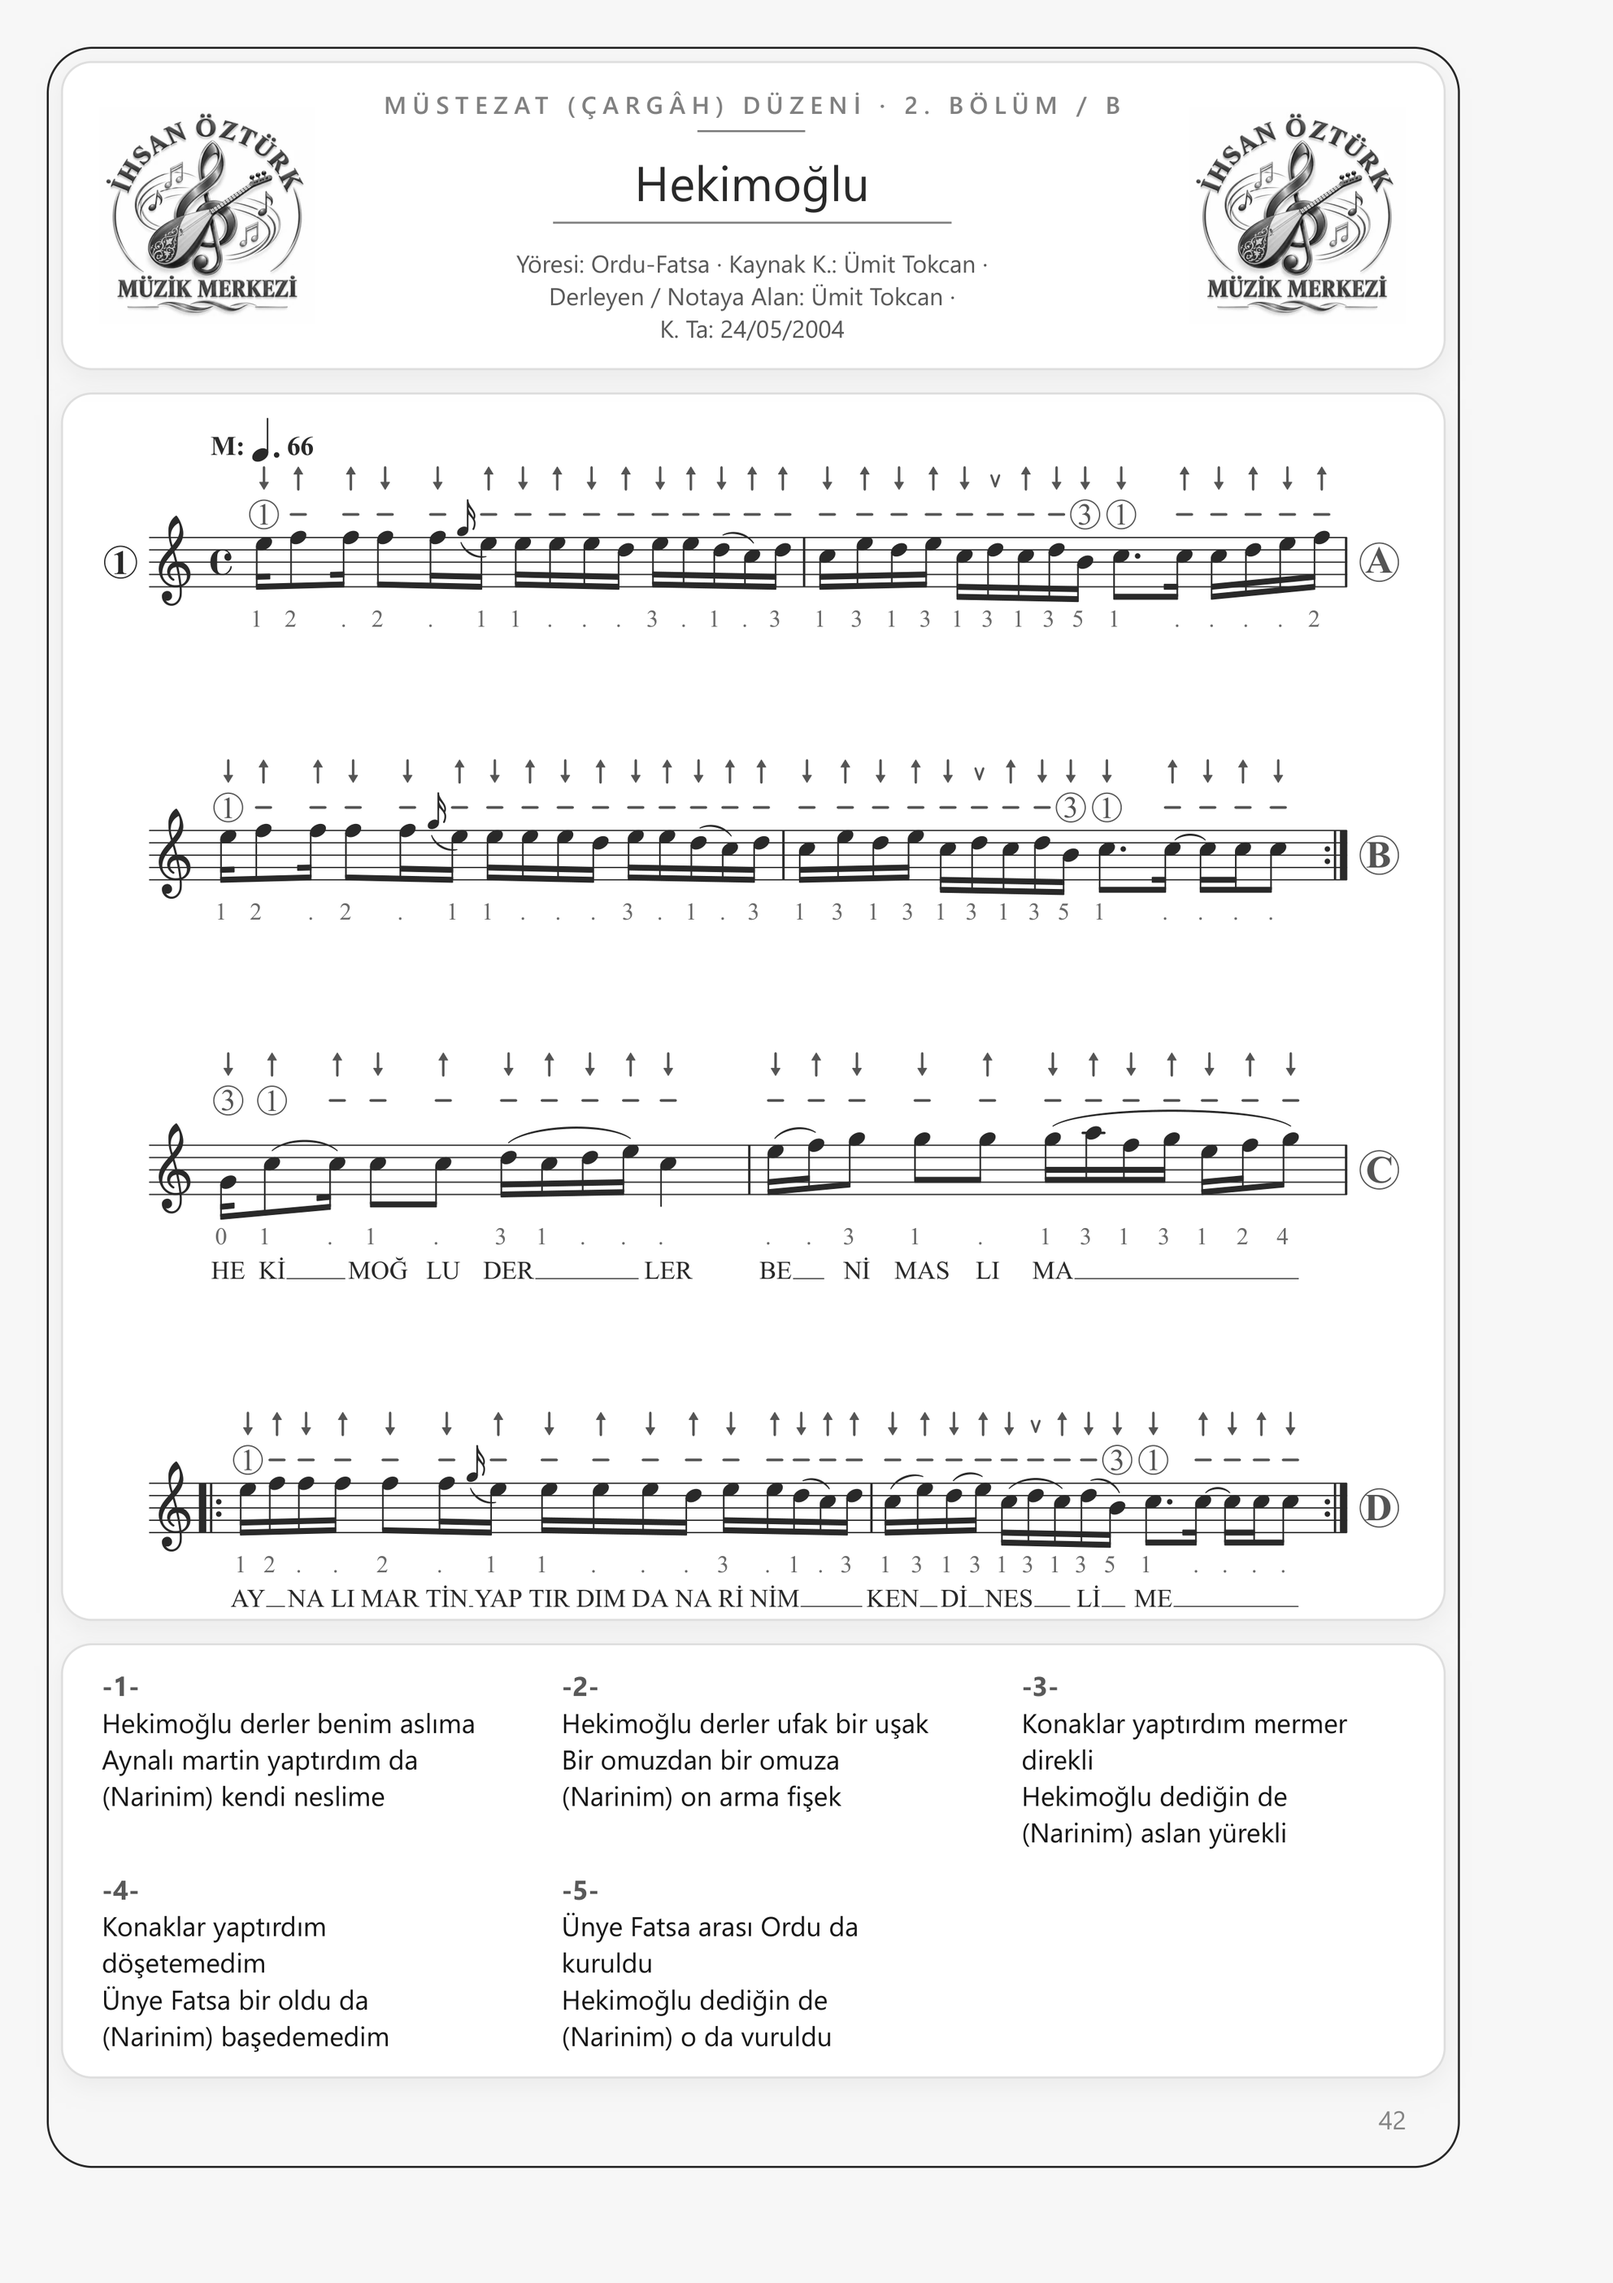
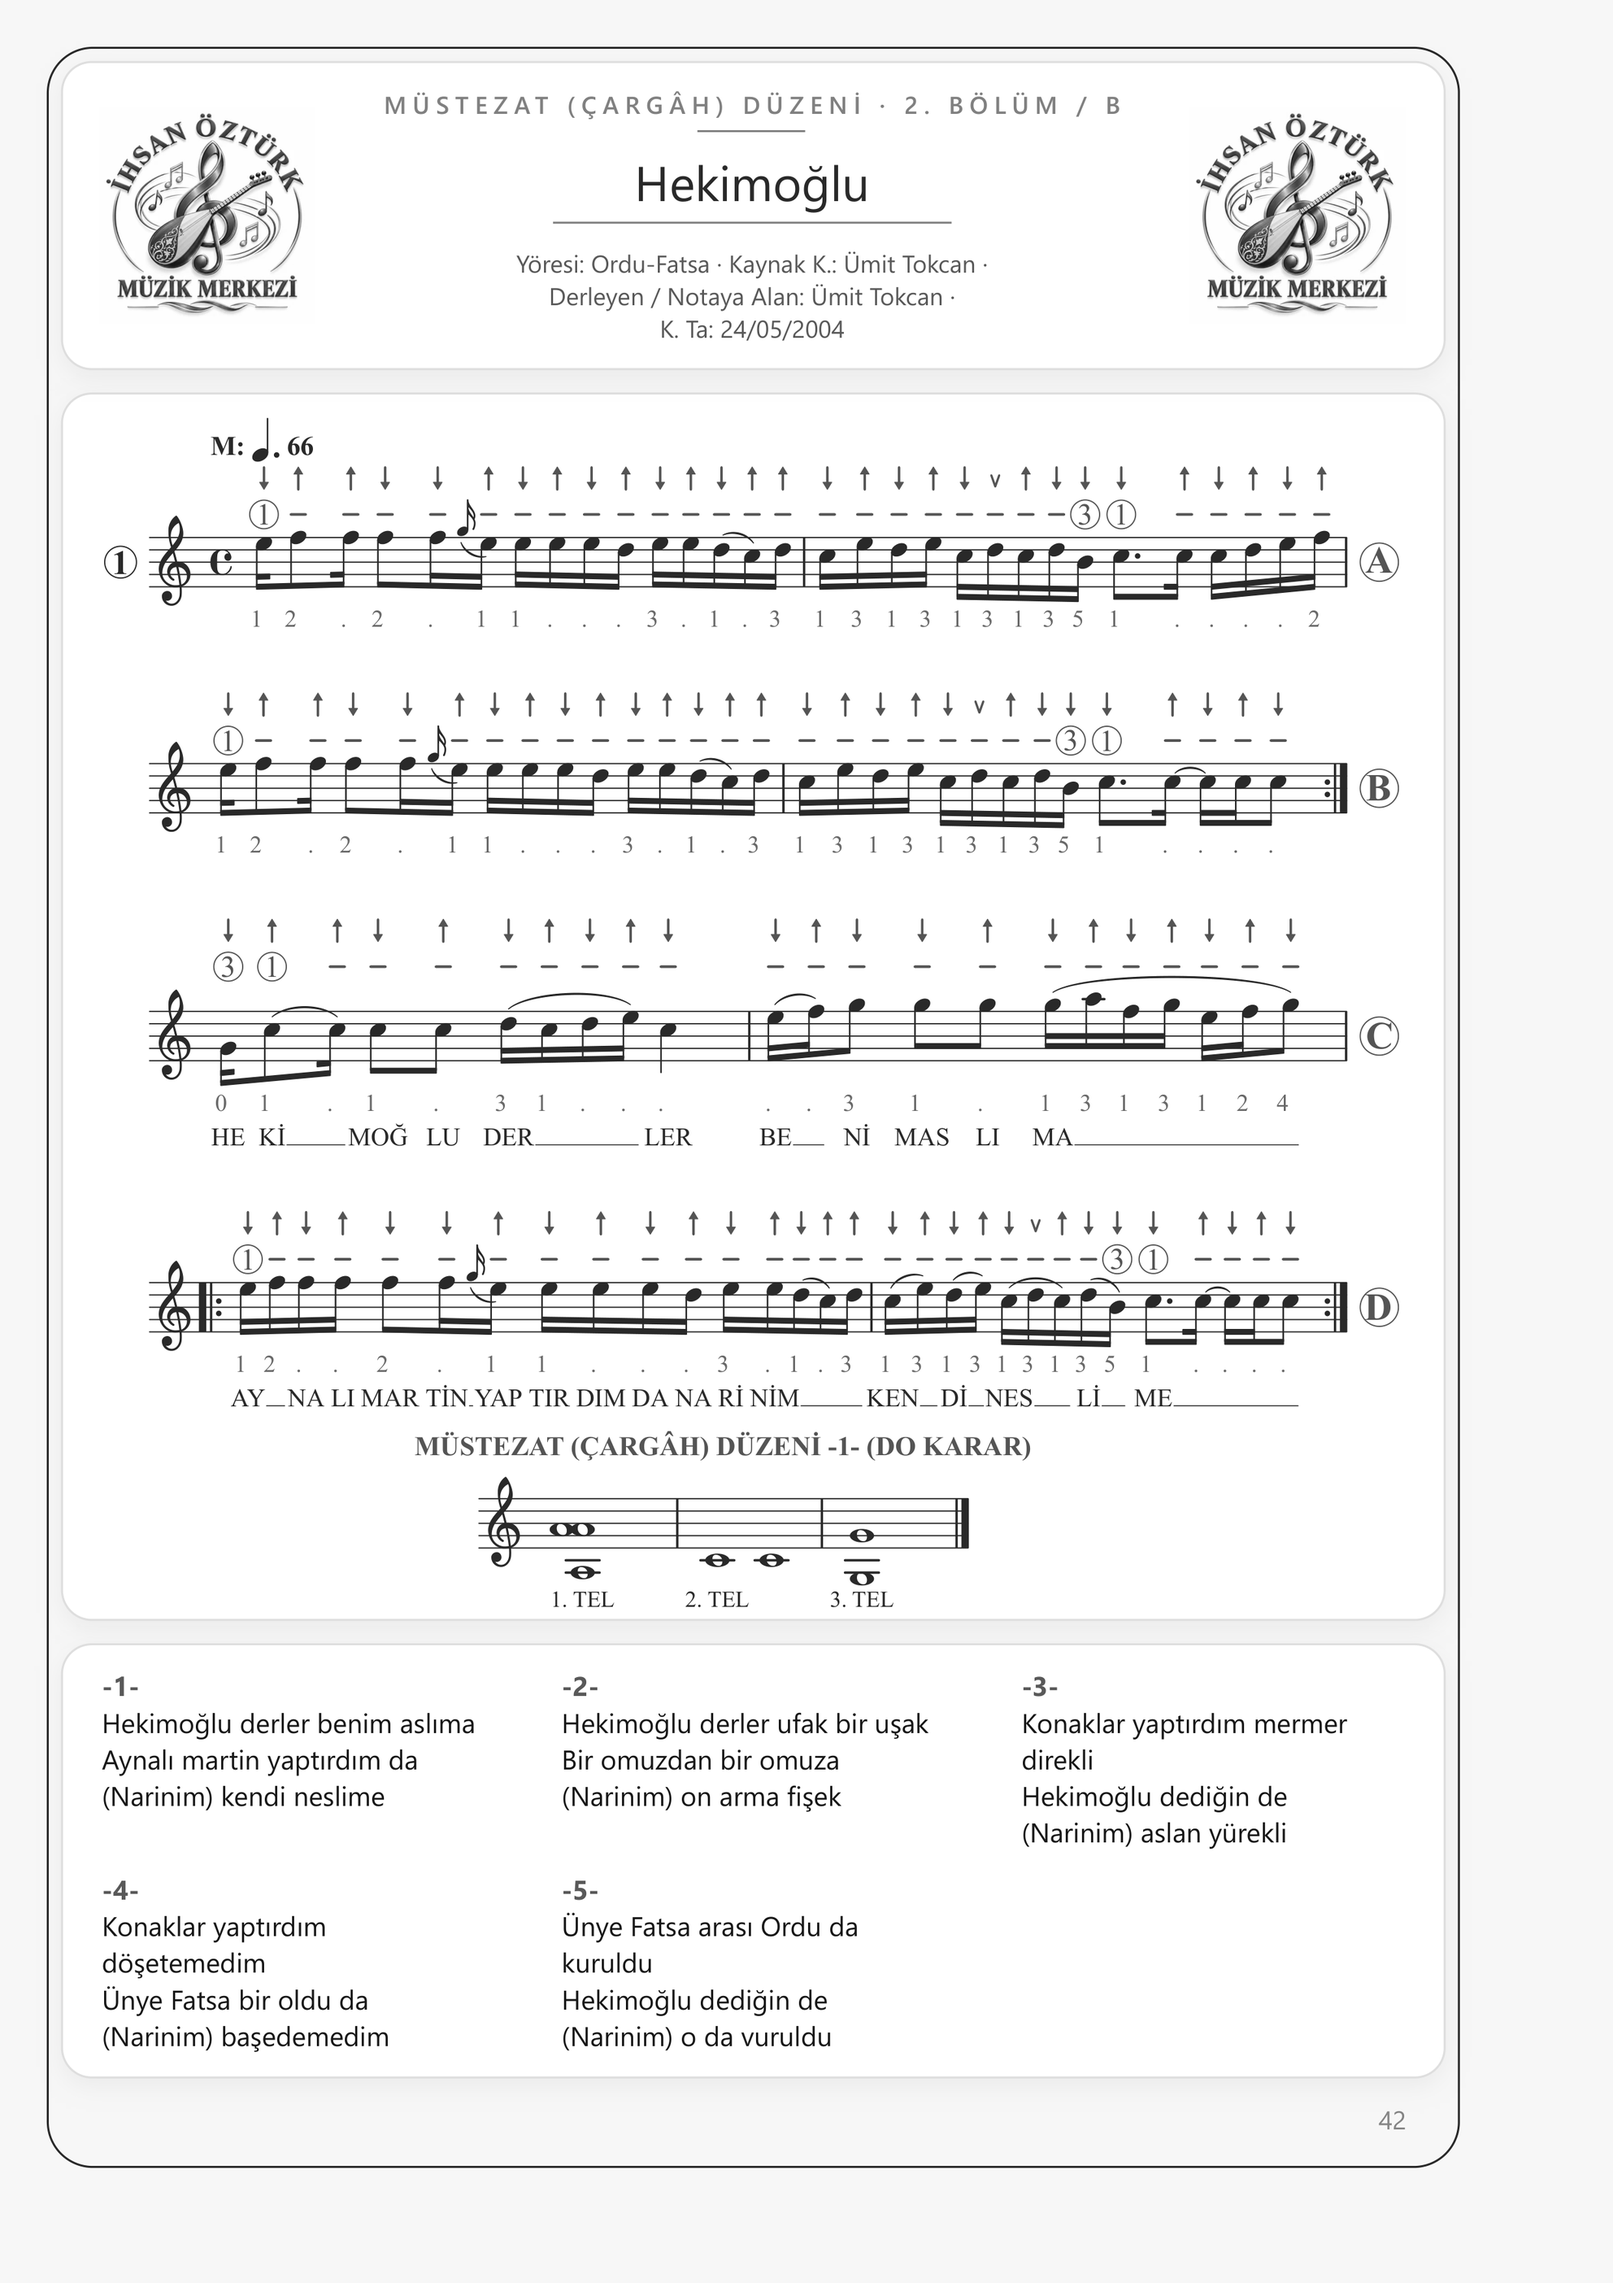
V92: Hekimoğlu MÜSTEZAT düzeni şeması (SAZMETRİ V0082)

Changed region(s): [[0.0938, 0.3099, 0.875, 0.7129]]

diff --git a/notes.js b/notes.js
@@ -22,9 +22,10 @@ window.NOTES = {
 "Arda Boylarında": { dir: "notes/arda-boylarinda/", page: "notes/arda-boylarinda/sayfa.png?v=89", pageBW: "notes/arda-boylarinda/sayfa-sb.png?v=89", groups: ["A", "B", "C", "D", "E", "F", "G", "A2"], cue: [], perde: { A: "10 10 11 10 7 10 7 10 7 4 4 7 4 3 3 7 4 7 10 7 10 7 4 7 4 3 4 3 10 10 10 10 10", B: "10 10 11 10 7 10 7 10 7 4 4 7 4 3 3 7 4 7 10 7 10 7 4 7 4 3 4 3 3 3 3 3 3", C: "7 14 14 12 11 14 11 10 10 11 10 7 11 10 11 14 11 10 11 10 11 10 7 10 7 7 7 7 7 7", D: "10 10 11 10 7 10 7 10 7 4 4 7 4 3 3 7 4 7 10 7 10 7 4 7 4 3 4 3 10 10 10 10 10", E: "10 10 11 10 7 10 7 10 7 4 4 7 4 3 3 7 4 7 10 7 10 7 4 7 4 3 4 3 3 3 3 3 3", F: "7 7 14 14 12 11 14 11 10 10 11 10 7 11 10 11 14 11 10 11 10 11 10 7 10 7 7 7 7 7 7", G: "10 10 11 10 7 10 7 10 7 4 4 7 4 3 3 7 4 7 10 7 10 7 4 7 4 3 4 3 10 10 10 10 10", A2: "10 10 11 10 7 10 7 10 7 4 4 7 4 3 3 7 4 7 10 7 10 7 4 7 4 3 4 3 10 10 10 10 10" } },
 // V90: Hekimoğlu perde + pages rebuilt after SAZMETRI V0080.
 // V66: Hekimoğlu (Kitap 2 / 24): book page 42, groups A-D. No video yet: cue empty, perde from the SAZMETRI generator (open-string g' skipped).
-"Hekimoğlu": { dir: "notes/hekimoglu/", page: "notes/hekimoglu/sayfa.png?v=90", pageBW: "notes/hekimoglu/sayfa-sb.png?v=90", groups: ["A", "B", "C", "D"], cue: [], perde: { A: "10 11 11 11 11 10 10 10 10 7 10 10 7 4 7 4 10 7 10 4 7 4 7 3 4 4 4 7 10 11", B: "10 11 11 11 11 10 10 10 10 7 10 10 7 4 7 4 10 7 10 4 7 4 7 3 4 4 4 4", C: "4 4 4 4 7 4 7 10 4 10 11 14 14 14 14 17 11 14 10 11 14", D: "10 11 11 11 11 11 10 10 10 10 7 10 10 7 4 7 4 10 7 10 4 7 4 7 3 4 4 4 4" } },
+"Hekimoğlu": { dir: "notes/hekimoglu/", page: "notes/hekimoglu/sayfa.png?v=92", pageBW: "notes/hekimoglu/sayfa-sb.png?v=92", groups: ["A", "B", "C", "D"], cue: [], perde: { A: "10 11 11 11 11 10 10 10 10 7 10 10 7 4 7 4 10 7 10 4 7 4 7 3 4 4 4 7 10 11", B: "10 11 11 11 11 10 10 10 10 7 10 10 7 4 7 4 10 7 10 4 7 4 7 3 4 4 4 4", C: "4 4 4 4 7 4 7 10 4 10 11 14 14 14 14 17 11 14 10 11 14", D: "10 11 11 11 11 11 10 10 10 10 7 10 10 7 4 7 4 10 7 10 4 7 4 7 3 4 4 4 4" } },
 // V67: Kayanın Bedenleri (Kitap 2 / 25): book pages 43 + 44 stacked as one page; groups A-F (p.43), A2 (p.44 = G). No video yet: cue empty, perde from the SAZMETRI generator.
 // V91: SAZMETRI V0081 Kayanin Bedenleri recheck (pitches, slurs, rests, dots, CO lyric): page, groups and perde rebuilt.
+// V92: SAZMETRI V0082 Hekimoglu: MUSTEZAT (CARGAH) DUZENI -1- tuning diagram added after staff D; page and groups re-cut.
 "Kayanın Bedenleri": { dir: "notes/kayanin-bedenleri/", page: "notes/kayanin-bedenleri/sayfa.png?v=91", pageBW: "notes/kayanin-bedenleri/sayfa-sb.png?v=91", groups: ["A", "B", "C", "D", "E", "F", "A2"], cue: [], perde: { A: "7 10 4 7 3 4 4 10 7 7 10 4 7 3 4 4 4 7 10 4 7 3 4 10 7", B: "7 10 4 7 3 4 4 4 7 10 4 7 3 4 10 7 7 10 4 7 3 4", C: "7 10 11 14 10 10 7 10 11 14 10 7 10 4 7 3 4 10 7", D: "7 10 4 7 3 4 7 10 11 14 10 10 7 10 11 14 10", E: "7 10 4 7 3 4 10 7 7 10 4 7 3 4 7 10 4 7 3 4 4 10 7", F: "7 10 4 7 3 4 4 4 7 10 4 7 3 4 10 7 7 10 4 7 3 4 4 4", A2: "7 10 4 7 3 4 10 7 7 10 4 7 3 4" } },
 // V71: Biz Canları Güle Vermişiz (Kitap 2 / 26): book pages 43 + 44 stacked as one page; groups A, B, C, A2 (p.43), B2 (p.44). Cut with the V70 component method (edge ink 0). No video yet: cue empty, perde from the SAZMETRI generator.
 "Biz Canları Güle Vermişiz": { dir: "notes/biz-canlari-gule-vermisiz/", page: "notes/biz-canlari-gule-vermisiz/sayfa.png?v=71", pageBW: "notes/biz-canlari-gule-vermisiz/sayfa-sb.png?v=71", groups: ["A", "B", "C", "A2", "B2"], cue: [], perde: { A: "4 4 4 10 10 7 10 4 4 4 7 7 3 4 4 4 4 10 10 7 10", B: "4 4 4 7 7 3 4 4 4 4 7 7 3 4 4 4 4 10 10 7 10", C: "4 4 4 7 7 3 4 4 4 4 7 7 3 4 14 14 14 10 10 7 10", A2: "4 4 4 7 7 3 4 4 4 4 7 7 3 4 14 14 14 10 10 7 10", B2: "4 4 4 7 7 3 4 4 4 4 7 7 3 4" } },

diff --git a/index.html b/index.html
@@ -557,7 +557,7 @@
 <script src="data.js?v=49"></script>
 <script src="media.js"></script>
 <script src="lyrics.js?v=87"></script>
-<script src="notes.js?v=91"></script>
+<script src="notes.js?v=92"></script>
 <script src="tools.js?v=40"></script>
 <script>
 const D = window.DATA;
@@ -633,7 +633,7 @@ function notes(name, msg, key){
     $('nt').firstChild.onclick = () => window.openPage && openPage(S.page, name, S.pageBW); }
   if (!S) { $('sheet').innerHTML = '<div class="ph">' + msg + '</div>'; sap(); return; }
   // V25 - one group (A, B, C ...) at a time; the letters on the right turn the page
-  $('sheet').innerHTML = '<div class="grp-view">' + S.groups.map(k => '<img class="nota" data-k="' + k + '" src="' + S.dir + k + '.png?v=91" alt="' + esc(name) + ' ' + k + '" hidden>').join('') + '</div>' +
+  $('sheet').innerHTML = '<div class="grp-view">' + S.groups.map(k => '<img class="nota" data-k="' + k + '" src="' + S.dir + k + '.png?v=92" alt="' + esc(name) + ' ' + k + '" hidden>').join('') + '</div>' +
     '<div class="grp-nav">' + S.groups.map(k => '<button data-k="' + k + '">' + k + '</button>').join('') + '</div>';
   const go = k => { $('sheet').querySelectorAll('[data-k]').forEach(e => e.tagName === 'IMG' ? e.hidden = e.dataset.k !== k : e.classList.toggle('on', e.dataset.k === k)); sap(S, k);
     // V40 - many groups: the list starts at the top (A) and slides down with the active letter
